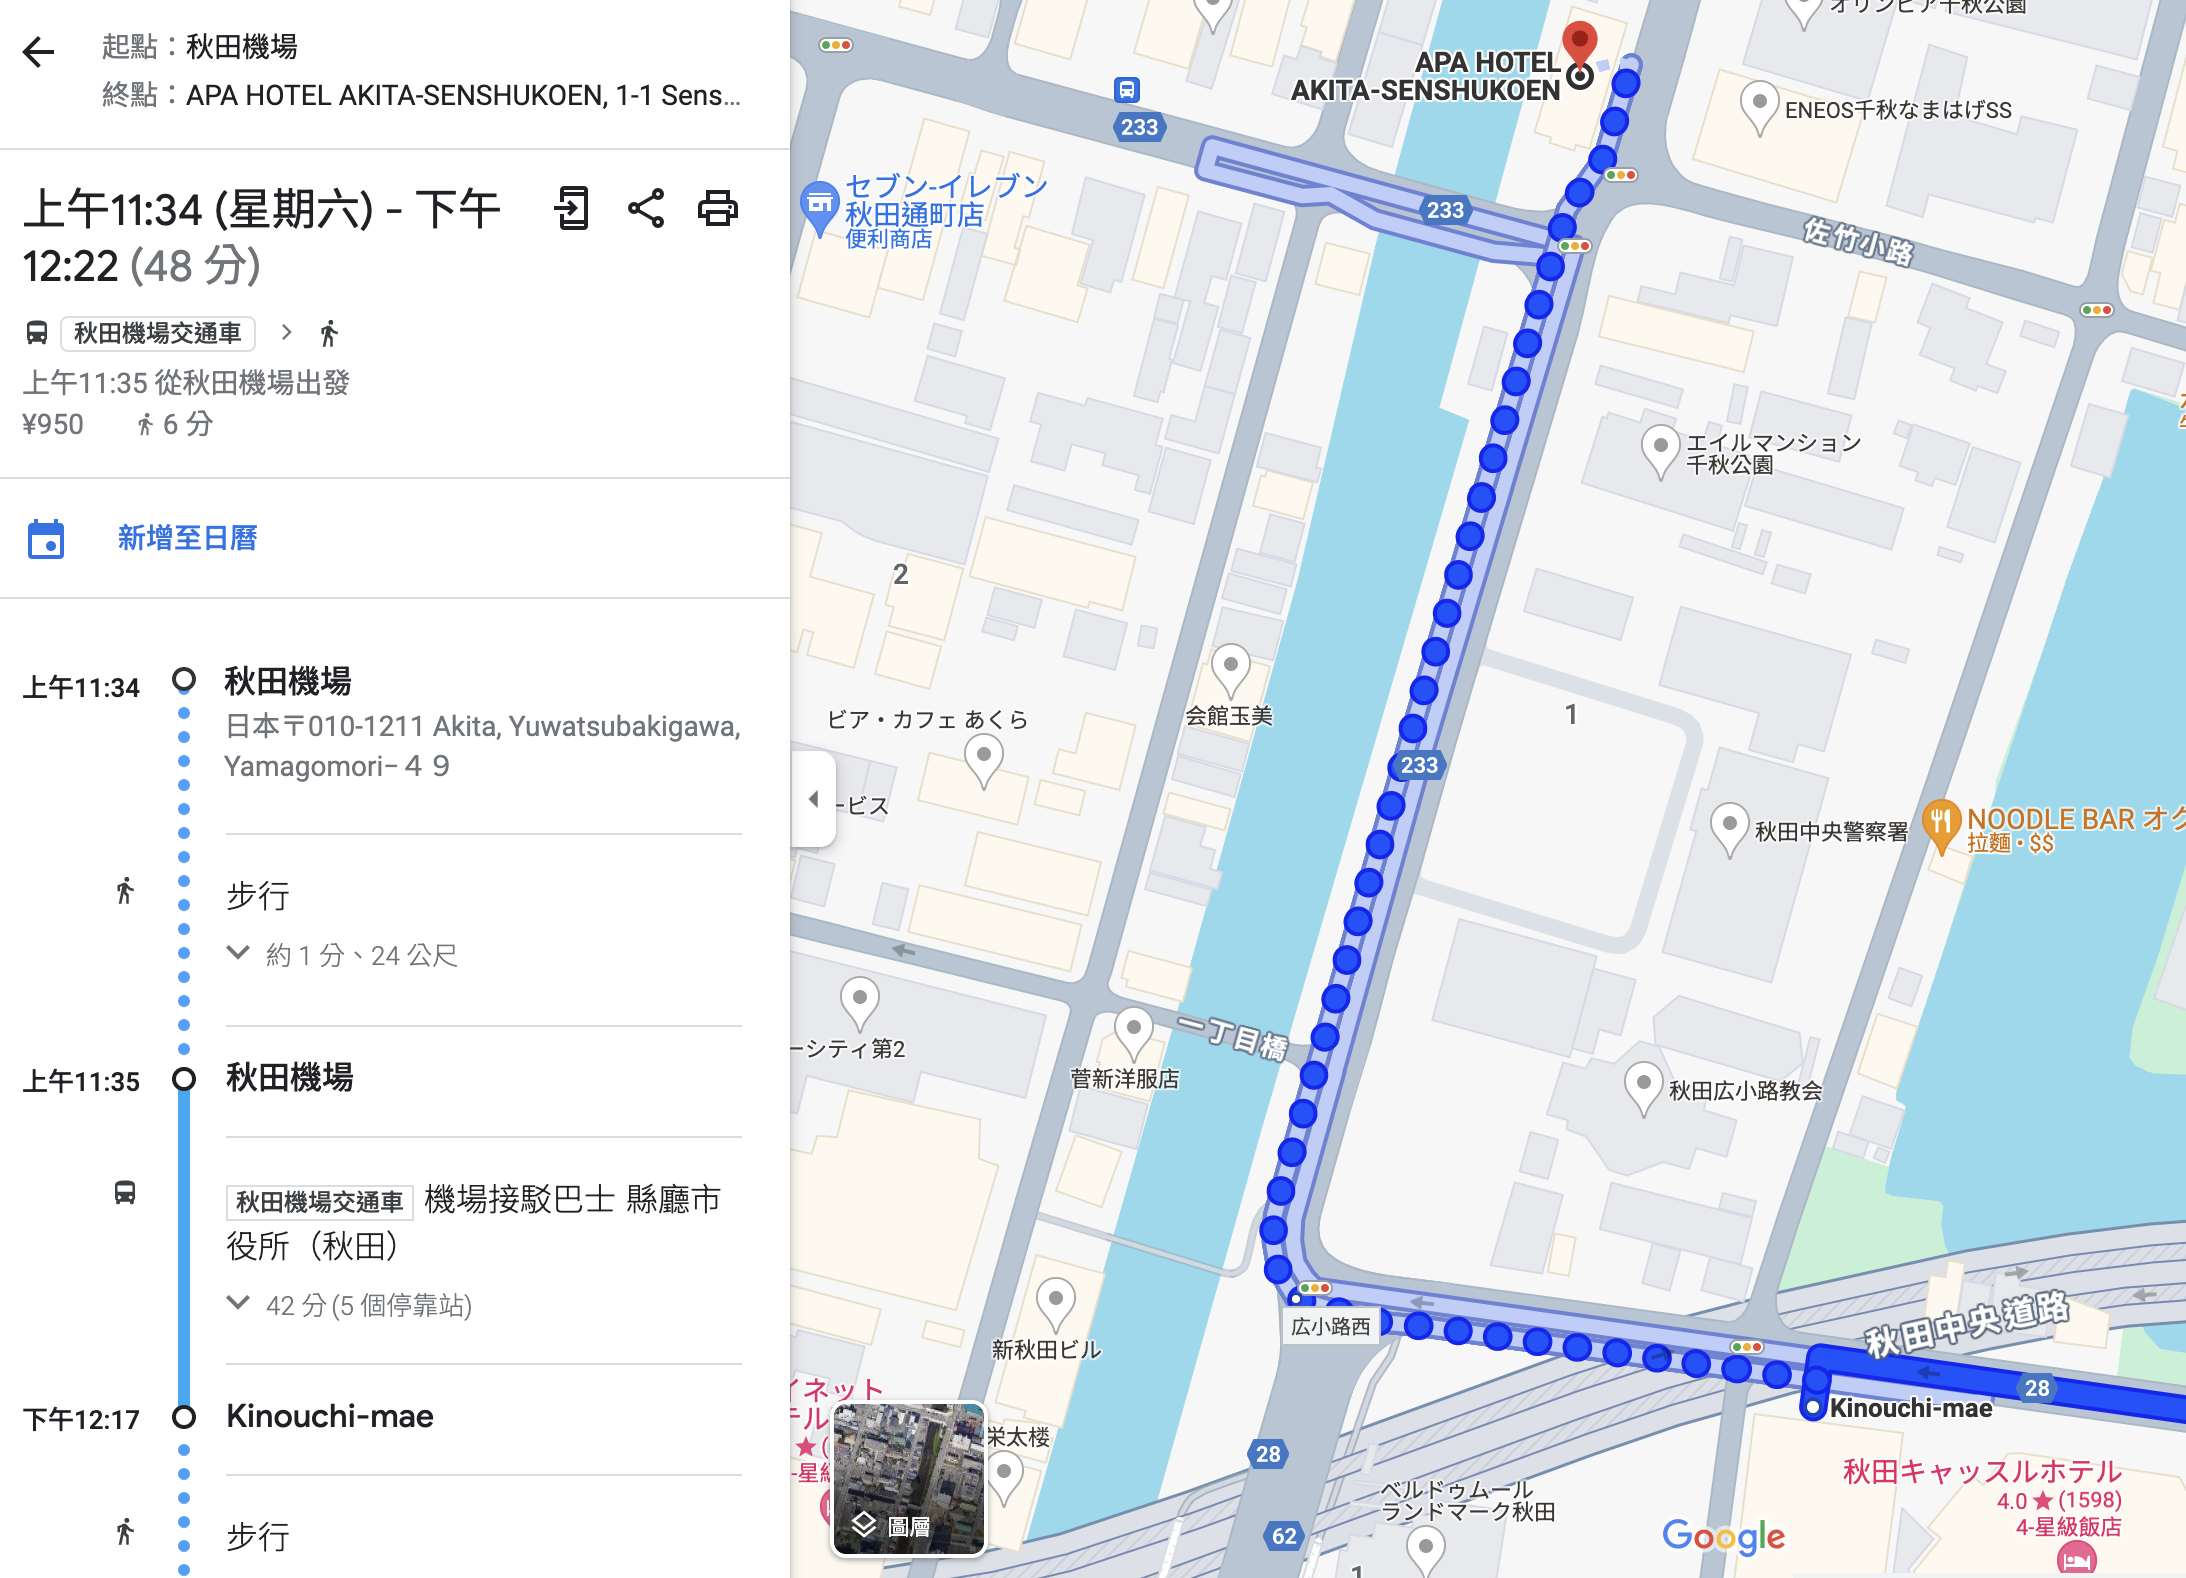
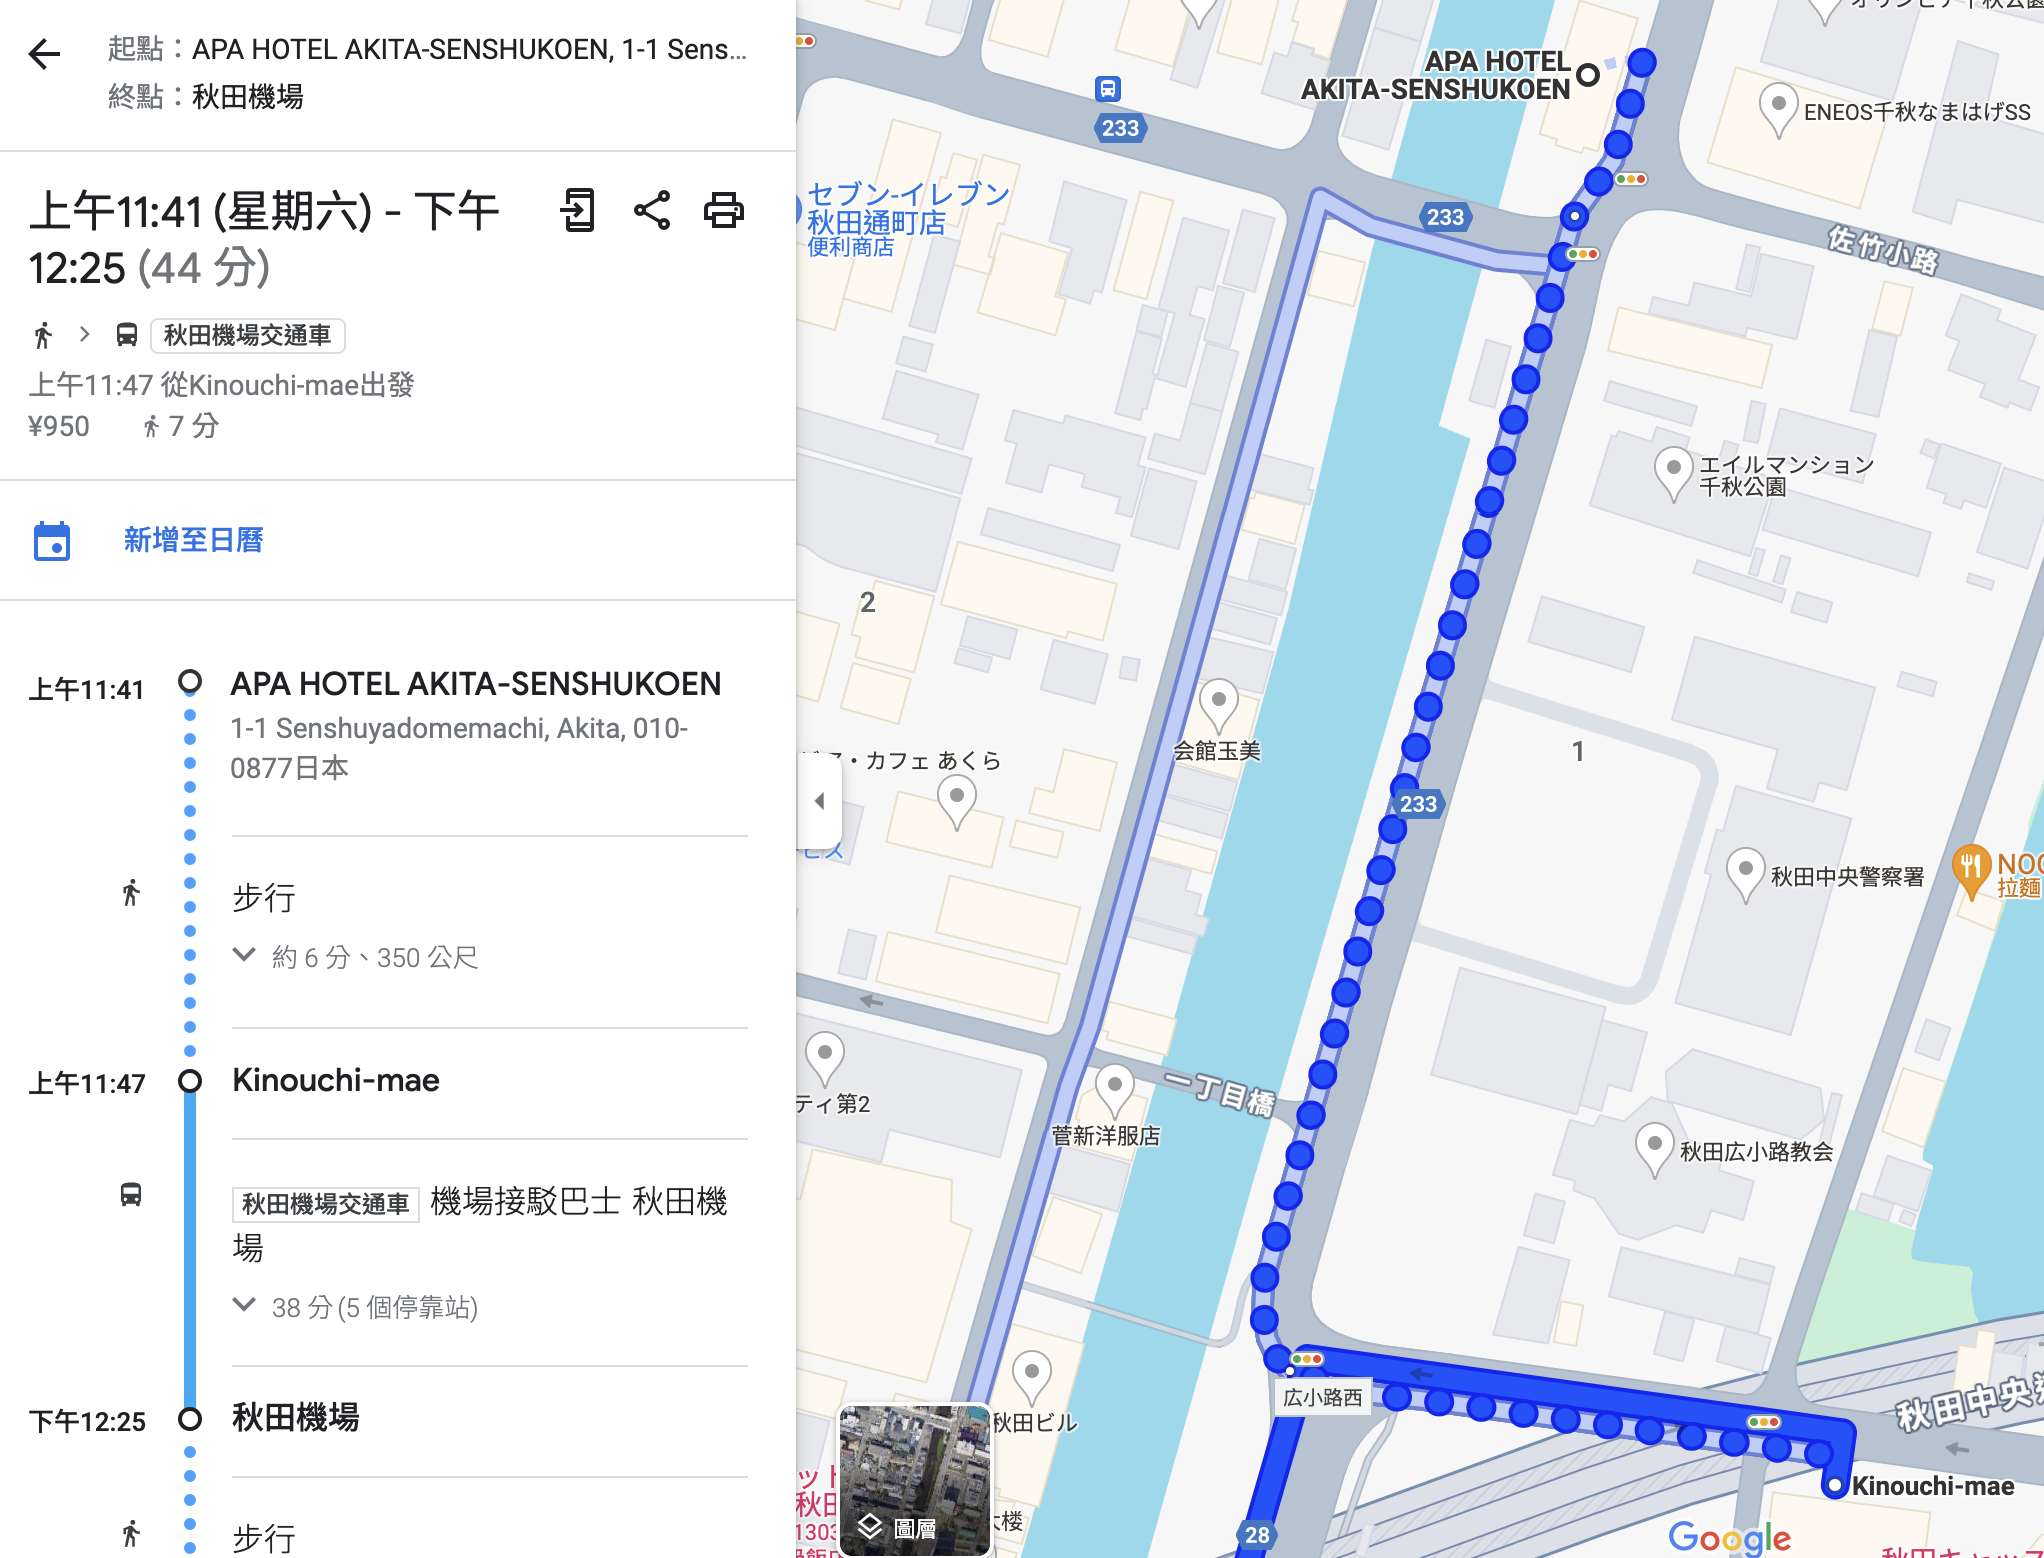
Publish

diff --git a/source/_drafts/aomori-sonwboarding-202402.md b/source/_drafts/aomori-sonwboarding-202402.md
@@ -35,9 +35,9 @@ tags:
 
 ## 回程 秋田-機場
 
-由於是最後一天住在秋田，然後 14:10 的飛機，因此先預估 11:30 從飯店出發，搭乘機場接送巴士去機場，時程 40 分鐘
+由於是最後一天住在秋田 [APA酒店 - 秋田千秋公園 (APA Hotel Akita-Senshukoen)](https://www.google.com/maps/place/APA+HOTEL+AKITA-SENSHUKOEN/@39.7206179,140.1166995,17z/data=!3m1!4b1!4m9!3m8!1s0x5f8fc2bfe52953e5:0xc91ceb8b6c1eb81a!5m2!4m1!1i2!8m2!3d39.7206138!4d140.1192798!16s%2Fg%2F12m9km9lj?authuser=0&entry=ttu)，然後 14:10 的飛機，因此先預估 11:30 從飯店出發，搭乘機場接送巴士去機場，時程 40 分鐘
 
-> [Google Map](https://maps.app.goo.gl/p4GrR1oMnNCMYJwf8)
+> [Google Map](https://maps.app.goo.gl/Ptum5uitHDe5Dkjo9)
 
 ![](https://nijialin.com/images/2024/amori/2.png)
 
